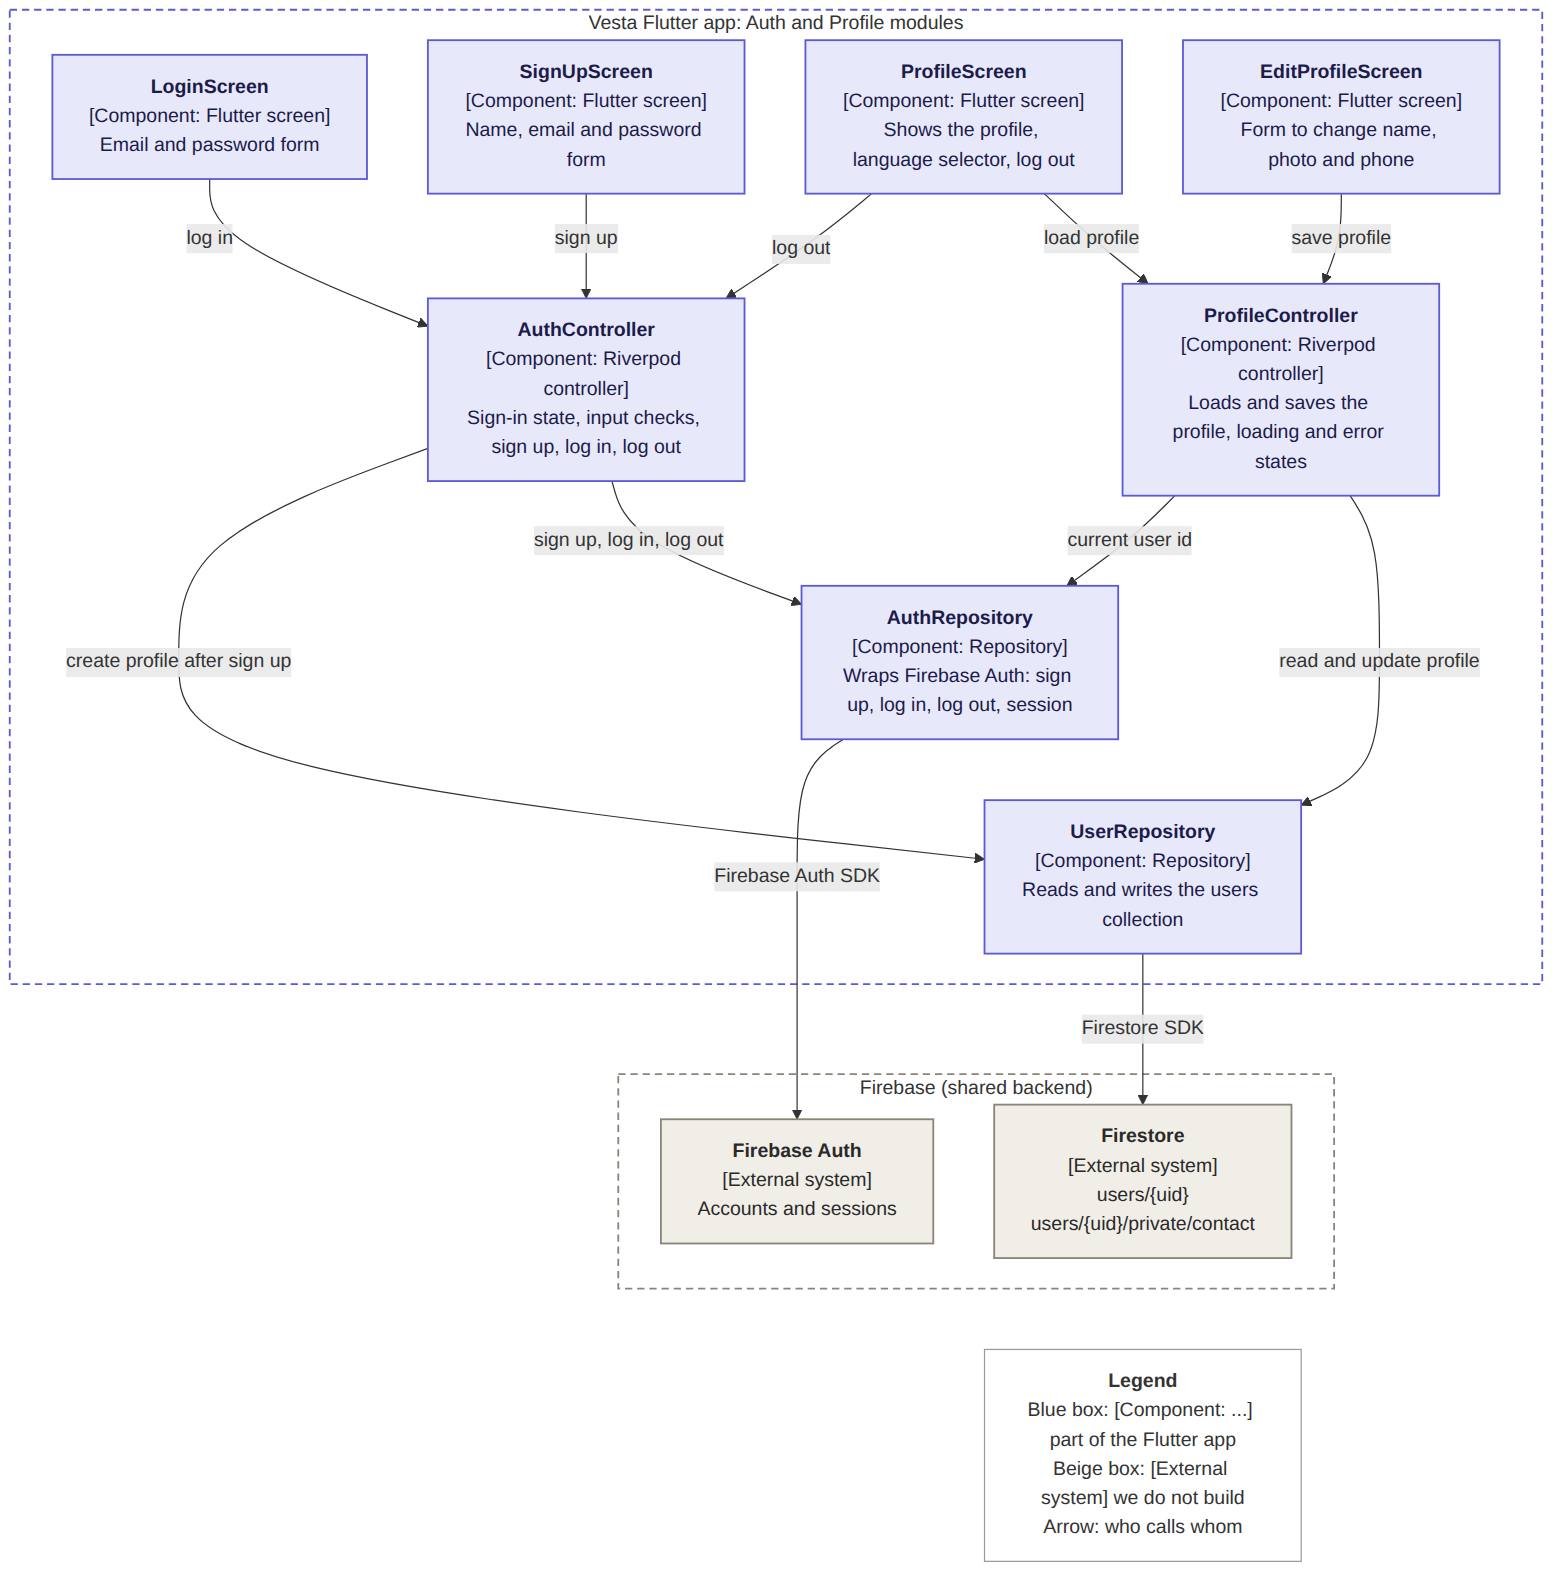
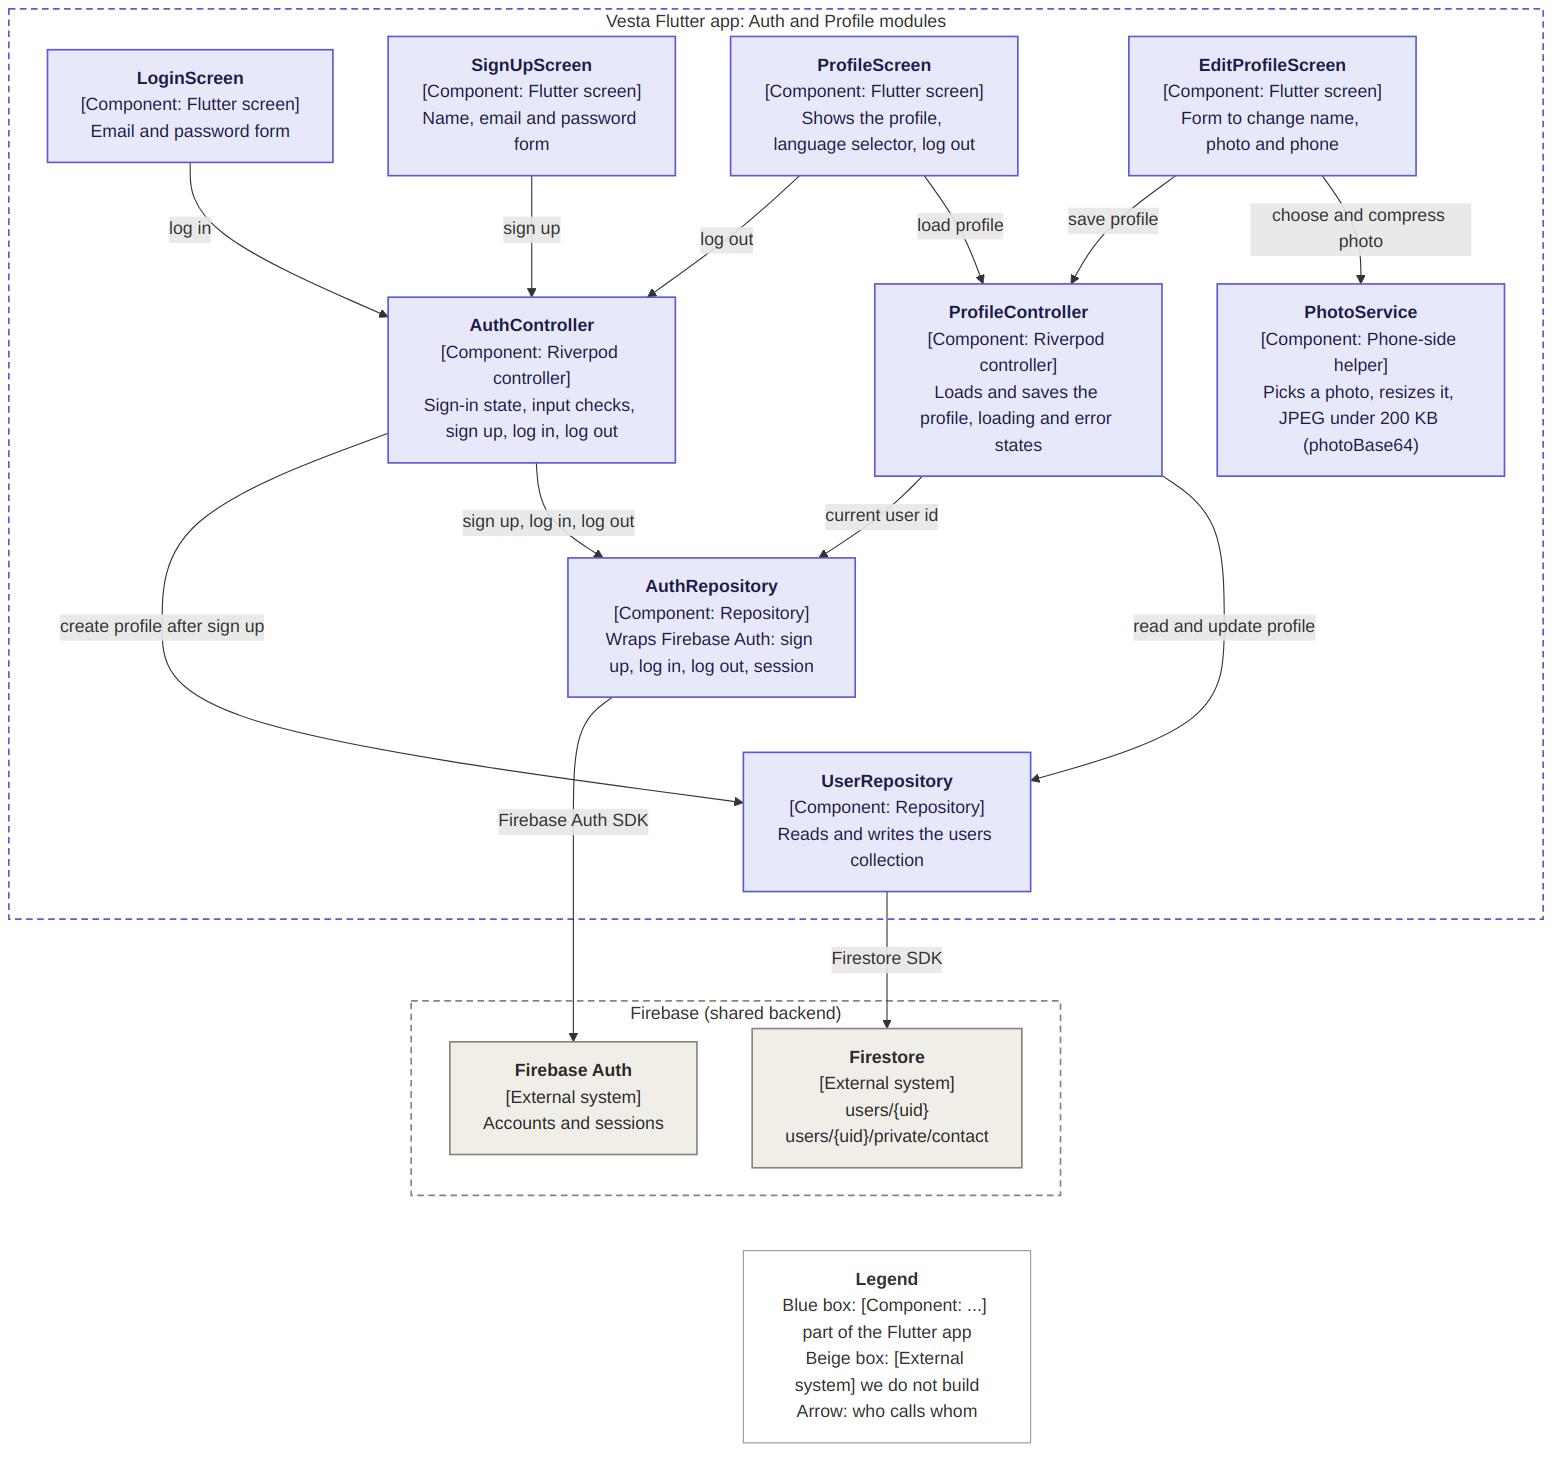
docs(c4): add PhotoService to auth/profile, rename ListingsScreen, merge photo helpers [VST-28]

diff --git a/docs/c4/README.md b/docs/c4/README.md
@@ -18,6 +18,7 @@ How to read the diagram:
 - Arrows show who calls whom. The rule is Screen -> Controller -> Repository -> Firebase. A screen never talks to Firebase directly.
 - Component names are the names we use in the code. The React Native app uses the same names and layers (its controllers are hooks or contexts).
 - Data names come from the data model (`docs/data-model.md`, VST-30): `users/{uid}` (public profile) and `users/{uid}/private/contact` (email and phone).
+- `PhotoService` runs on the phone, before anything is sent: `EditProfileScreen` uses it to pick a profile photo and save it as a JPEG under 200 KB (`photoBase64`, see `docs/data-model.md`). It is the same helper as in the Listings diagram.
 - One arrow crossing remains on purpose: both controllers use both repositories (`AuthController` and `ProfileController` call `AuthRepository` and `UserRepository`), so the arrows cannot all be drawn without a crossing while keeping the layers.
 
 | Component | Type | Responsibility |
@@ -26,6 +27,7 @@ How to read the diagram:
 | `SignUpScreen` | Flutter screen | Name, email and password form. |
 | `ProfileScreen` | Flutter screen | Shows the profile, the language selector and the log out button. |
 | `EditProfileScreen` | Flutter screen | Form to change name, photo and phone. |
+| `PhotoService` | Phone-side helper | Picks a photo, resizes it and saves it as JPEG under 200 KB (`photoBase64`). |
 | `AuthController` | Riverpod controller | Keeps the sign-in state, checks the input, runs sign up, log in and log out, and asks `UserRepository` to create the profile after sign up. |
 | `ProfileController` | Riverpod controller | Loads and saves the profile, handles loading and error states, gets the current user id from `AuthRepository`. |
 | `AuthRepository` | Repository | Wraps Firebase Auth: sign up, log in, log out, session. |
@@ -40,12 +42,12 @@ Read it like the Auth and Profile diagram (types between brackets, legend at the
 - `ListingRepository` writes the listing and its photos (fixed ids `p0` to `p4`) and the `photoCount` in one batch write, so there is no separate photo repository.
 - `formatPrice` (TND, thousands separators) and the translation layer (English, French, Arabic) are shared helpers used by every screen. They are drawn once, without arrows, to keep the diagram readable.
 - `FavoritesController` asks `ListingRepository` for the favorite listings, because a favorite only stores the listing id.
-- The list and detail screens are placeholders in the code today (`ListingsScreen`); they are drawn here as they will be built.
+- The list screen is called `ListingsScreen`, the name used in the code (a placeholder today); the detail screen is drawn as it will be built.
 
 | Component | Type | Responsibility |
 |---|---|---|
 | `PublishListingScreen` | Flutter screen | Form to publish a listing (price in TND, rent period, property type, city) with photos. |
-| `ListingListScreen` | Flutter screen | Lists the listings with photo and price. |
+| `ListingsScreen` | Flutter screen | Lists the listings with photo and price. |
 | `ListingDetailScreen` | Flutter screen | Shows one listing, its photos and a favorite button. |
 | `FavoritesScreen` | Flutter screen | Lists the favorite listings. |
 | `ListingController` | Riverpod controller | Runs the publish flow, loads the listings, handles loading and error states. |
